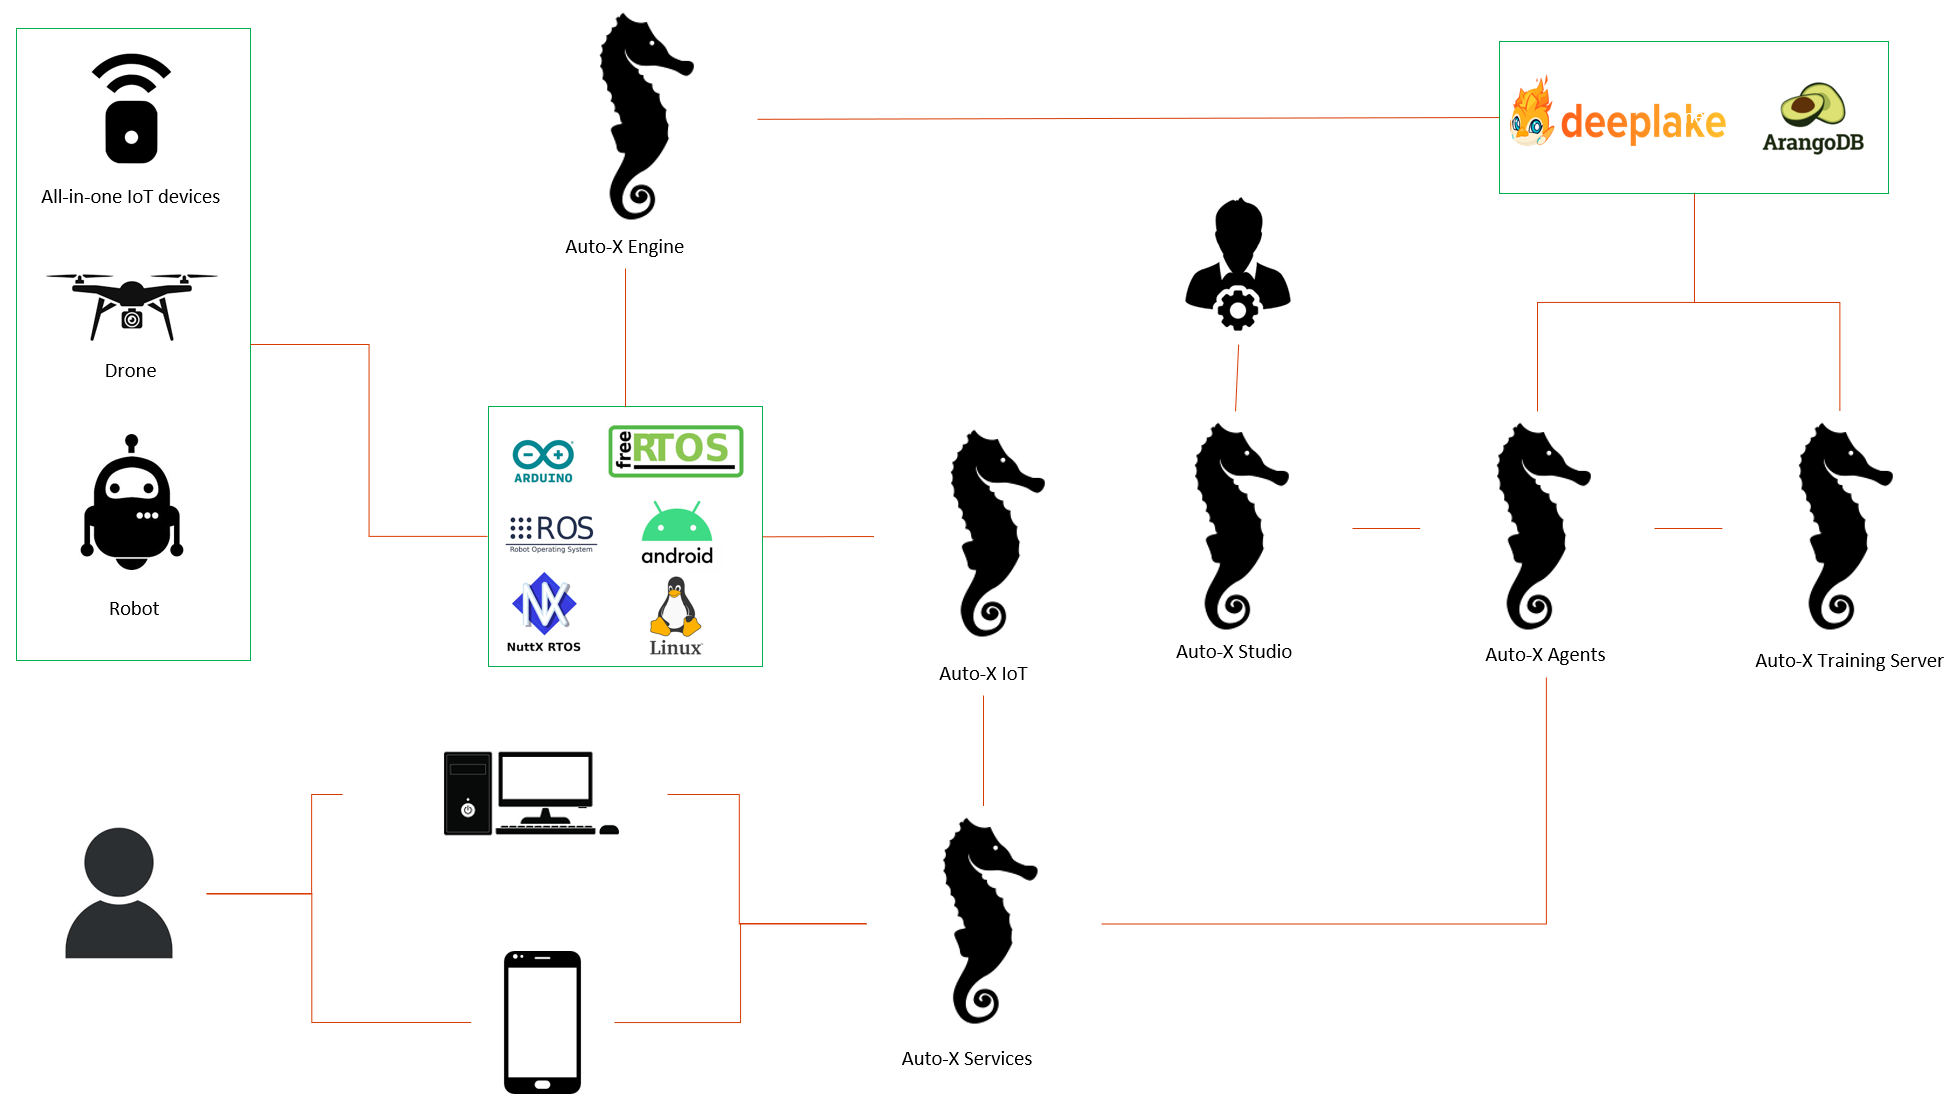
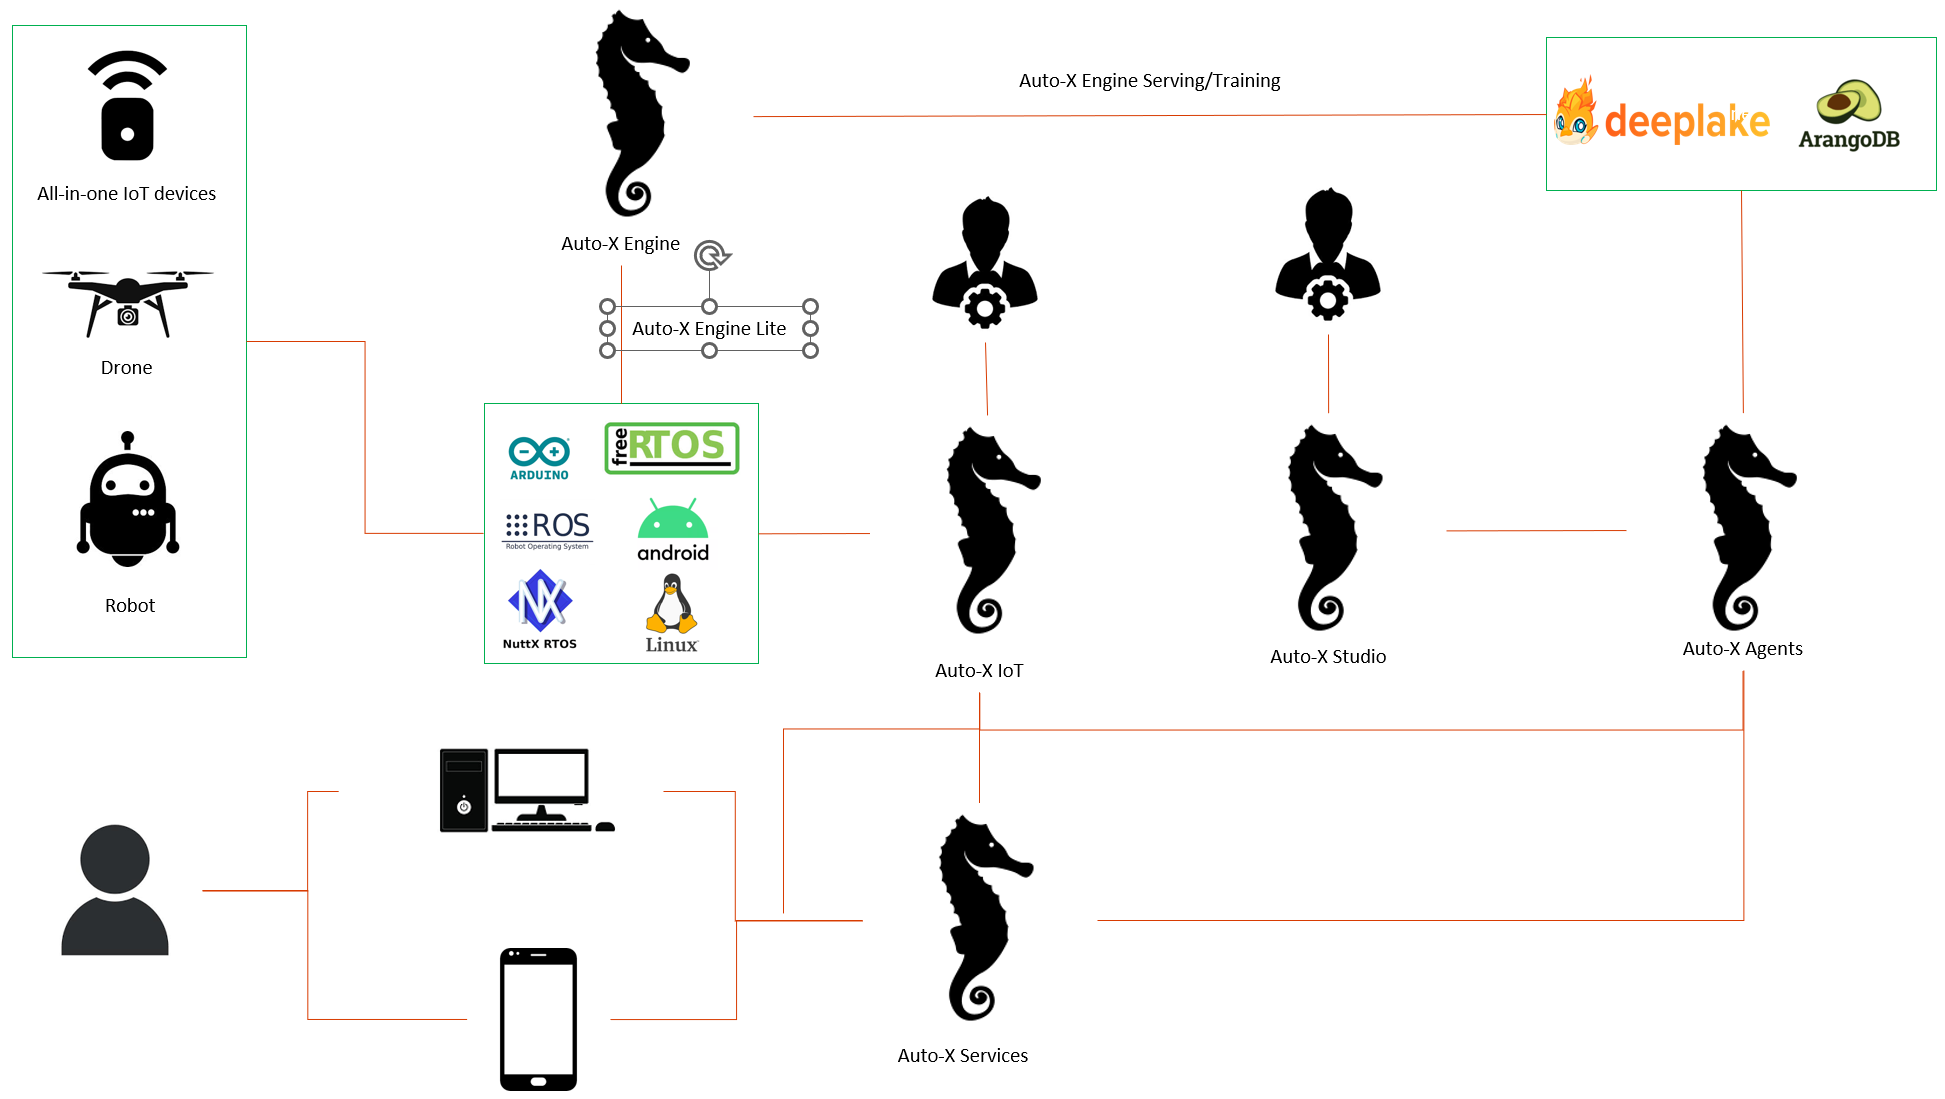
bug fix

diff --git a/studio/README.md b/studio/README.md
@@ -1,8 +1,6 @@
 # Auto-X Studio
 
-Auto-X Studio is based on Label Studio and provides full workflows to build or finetune your own AI solution models.
-Auto-X Studio contains three types of interfaces to build solution models: document table building tool, 
-knowledge graph building tool, and general purpose building tool.
+Auto-X Studio provides full workflows to build or finetune your own AI solution models.
 
 
 ## Run studio
@@ -21,36 +19,45 @@ python label_studio/manage.py collectstatic
 python label_studio/manage.py runserver
 ```
 
-## Create Detect Anything Dataset
+## Workflow
 
-1. Create a project and select the 'Detect Anything' labeling template. Click 'Save'.
-2. Start [Auto-X Agents Server](../agents) and Connect to Auto-X Agents
-3. Go to the Data Manager, and import the image data
+1. Create a project and select the appropriate labeling template. Click 'Save'.
+<div  align="center">
+  <img src="../assets/lspr/select_template.png" width="500"/>
+</div>
+
+2. Start [Auto-X Agents](../agents) and Connect to Auto-X Agents
+<div  align="center">
+  <img src="../assets/lspr/autox_agents.png" width="500"/>
+</div>
+
+3. Go to the Data Manager, and import the data
 4. Select 'Actions > Retrieve predictions'.
 5. Select 'Actions > Create Annotations from Predictions'.
-6. Confirm the pre-annotated data manually
-
-> **Note** You can also using existing Vector Database for pre-labeling.
-
-## Create Document Recognition Dataset
-
-## Create LLM Dataset
-
-## Create Video Captioning Dataset
+6. Confirm the pre-annotated data manually and modify if necessary
+7. Start the [Auto-X Engine Training Server](https://github.com/HairongWu/Auto-X-Engine)(Not available for now)
+8. Click 'Start Training' of dropdown menu of project settings.(Not available for now)
 
 
-## Create Document Table Recognition Dataset
+## Demos
+
+### Create Detect Anything Dataset
 
 
-## Create Vector Database for Image Recognition
+### Create Document Recognition Dataset (Layout Analysis and OCR)
+
+### Create LLM Dataset
+
+### Create Video Captioning Dataset
 
 
-## Create Knowledge Graph Database
+### Create Document Table Recognition Dataset
 
 
+### Create Vector Database
 
-## Training (Not available for now)
 
-1. Start the [Auto-X Training server](https://github.com/HairongWu/Auto-X-Training-Server)
-2. Click 'Start Training' of dropdown menu of project settings.
+### Create Knowledge Graph Database
+
+
 

diff --git a/README.md b/README.md
@@ -20,13 +20,13 @@ Auto-X for Industries is an autonomous solution that aims to solve the following
 
 ## Release Plans
 
-- [ ] Release Auto-X Studio, Engine, and Agents (this repo)
-
+- [ ] Auto-X Studio and Agents (this repo)
+- [ ] [Auto-X Engine](https://github.com/HairongWu/Auto-X-Engine) (based on OpenRLHF/MNN/vLLM)
 - [ ] [Auto-X IoT](https://github.com/HairongWu/Auto-X-IoT) (based on OpenRemote)
 
 - [ ] [Auto-X IDE](https://github.com/HairongWu/Auto-X-IDE) (based on theia)
 - [ ] [Auto-X Search](https://github.com/HairongWu/Auto-X-Search) (based on SWIRL AI Connect and Perplexica)
-- [ ] [Auto-X Training Server](https://github.com/HairongWu/Auto-X-Training-Server) (based on OpenRLHF)
+
  
 ## Other Plans (Automate Existing Business Systems with Auto-X)
 
@@ -39,7 +39,7 @@ Auto-X for Industries is an autonomous solution that aims to solve the following
 
 - Auto-X Consultant (All-In-One)
 
-## Acknowledgments
+## References and Acknowledgments
 
 - [label-studio](https://github.com/HumanSignal/label-studio)
 - [openremote](https://github.com/openremote/openremote)
@@ -47,3 +47,31 @@ Auto-X for Industries is an autonomous solution that aims to solve the following
 - [OpenClinic GA](https://sourceforge.net/projects/open-clinic/)
 - [Open Hospital](https://github.com/informatici/openhospital)
 - [SWIRL AI Connect](https://github.com/swirlai/swirl-search)
+
+- [label-studio-ml-backend](https://github.com/HumanSignal/label-studio-ml-backend)
+
+- [RAGFlow](https://github.com/infiniflow/ragflow)
+- [XAgent](https://github.com/OpenBMB/XAgent)
+- [crewAI](https://github.com/joaomdmoura/crewAI)
+
+- [VideoLLaMA 2](https://github.com/DAMO-NLP-SG/VideoLLaMA2)
+- [anomalib](https://github.com/openvinotoolkit/anomalib)
+- [EmoLLM](https://github.com/SmartFlowAI/EmoLLM)
+
+- [PP-Structure](https://github.com/PaddlePaddle/PaddleOCR/tree/main/ppstructure)
+
+- [Chronos](https://github.com/amazon-science/chronos-forecasting)
+
+- [V-Express](https://github.com/tencent-ailab/V-Express)
+
+- [ScrapeGraphAI](https://github.com/VinciGit00/Scrapegraph-ai)
+- [crawl4ai](https://github.com/unclecode/crawl4ai)
+
+- [Docs2KG](https://github.com/AI4WA/Docs2KG)
+- [Extract, Define, Canonicalize](https://github.com/clear-nus/edc)
+
+
+- [MetaGPT](https://github.com/geekan/MetaGPT)
+- [aiXcoder](https://github.com/aixcoder-plugin/aiXcoder-7B)
+
+- [Deep Lake](https://github.com/activeloopai/deeplake)

diff --git a/agents/README.md b/agents/README.md
@@ -2,8 +2,8 @@
 
 
 This projects is originally based on label-studio-ml-backend, so it is compatible with label-studio interfaces.
-Auto-X AI Server supports three types of tasks: prediction tasks, training tasks, and agent tasks.
-The prediction tasks, training tasks, and LLM-based web scraping tasks can be used in Auto-X Studio, and agent tasks can be used in Auto-X Service.
+Auto-X AI Agents supports two types of tasks: training task and agent task.
+The agent task is intefrated with the Auto-X Engine Serving, and the training task with the Auto-X Engine Training.
 
 ## Environment Setup
 
@@ -30,33 +30,3 @@ pip install -r requirements.txt
 ```bash
 python _wsgi.py --log-level DEBUG  --ls-access-token xxxxxxx --ls-url http://127.0.0.1:8080/
 ```
-
-## References
-
-- [label-studio-ml-backend](https://github.com/HumanSignal/label-studio-ml-backend)
-
-- [RAGFlow](https://github.com/infiniflow/ragflow)
-- [XAgent](https://github.com/OpenBMB/XAgent)
-- [crewAI](https://github.com/joaomdmoura/crewAI)
-
-- [VideoLLaMA 2](https://github.com/DAMO-NLP-SG/VideoLLaMA2)
-- [anomalib](https://github.com/openvinotoolkit/anomalib)
-- [EmoLLM](https://github.com/SmartFlowAI/EmoLLM)
-
-- [PP-Structure](https://github.com/PaddlePaddle/PaddleOCR/tree/main/ppstructure)
-
-- [Chronos](https://github.com/amazon-science/chronos-forecasting)
-
-- [V-Express](https://github.com/tencent-ailab/V-Express)
-
-- [ScrapeGraphAI](https://github.com/VinciGit00/Scrapegraph-ai)
-- [crawl4ai](https://github.com/unclecode/crawl4ai)
-
-- [Docs2KG](https://github.com/AI4WA/Docs2KG)
-- [Extract, Define, Canonicalize](https://github.com/clear-nus/edc)
-
-
-- [MetaGPT](https://github.com/geekan/MetaGPT)
-- [aiXcoder](https://github.com/aixcoder-plugin/aiXcoder-7B)
-
-- [Deep Lake](https://github.com/activeloopai/deeplake)
